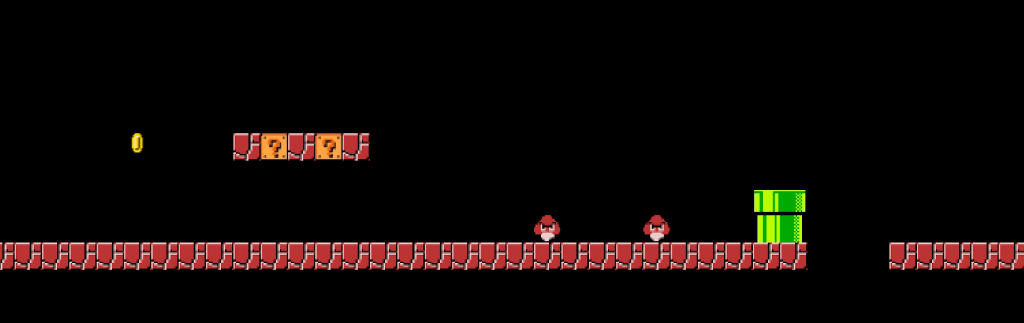
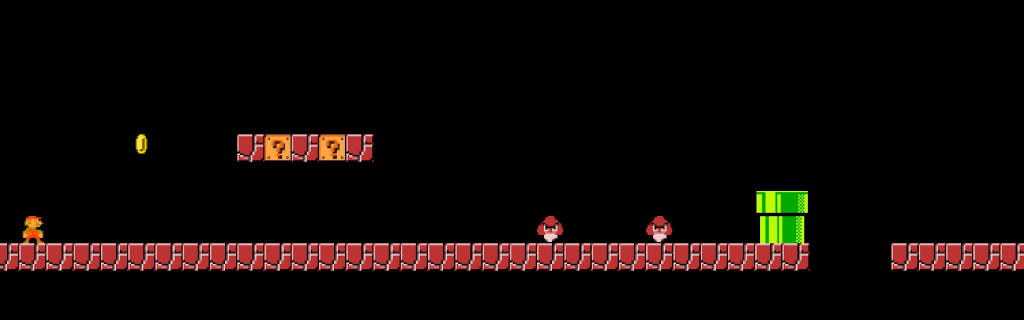
Adding Mario

diff --git a/game.js b/game.js
@@ -44,7 +44,7 @@ scene("game", () => {
     const levelCfg = {
         width: 20,
         height: 20,
-        '=': [sprite('block', solid())],
+        '=': [sprite('block'), solid()],
         '$': [sprite('coin')],
         '%': [sprite('surprise'), solid(), 'coin-surprise'],
         '*': [sprite('surprise'), solid(), 'mushroom-surprise'],
@@ -59,6 +59,13 @@ scene("game", () => {
     }
 
     const gameLevel = addLevel(map, levelCfg)
+
+    const player = add([
+        sprite('mario'), solid(),
+        pos(30, 0),
+        body(), 
+        origin('bot')
+    ])
 })
 
 start("game")
